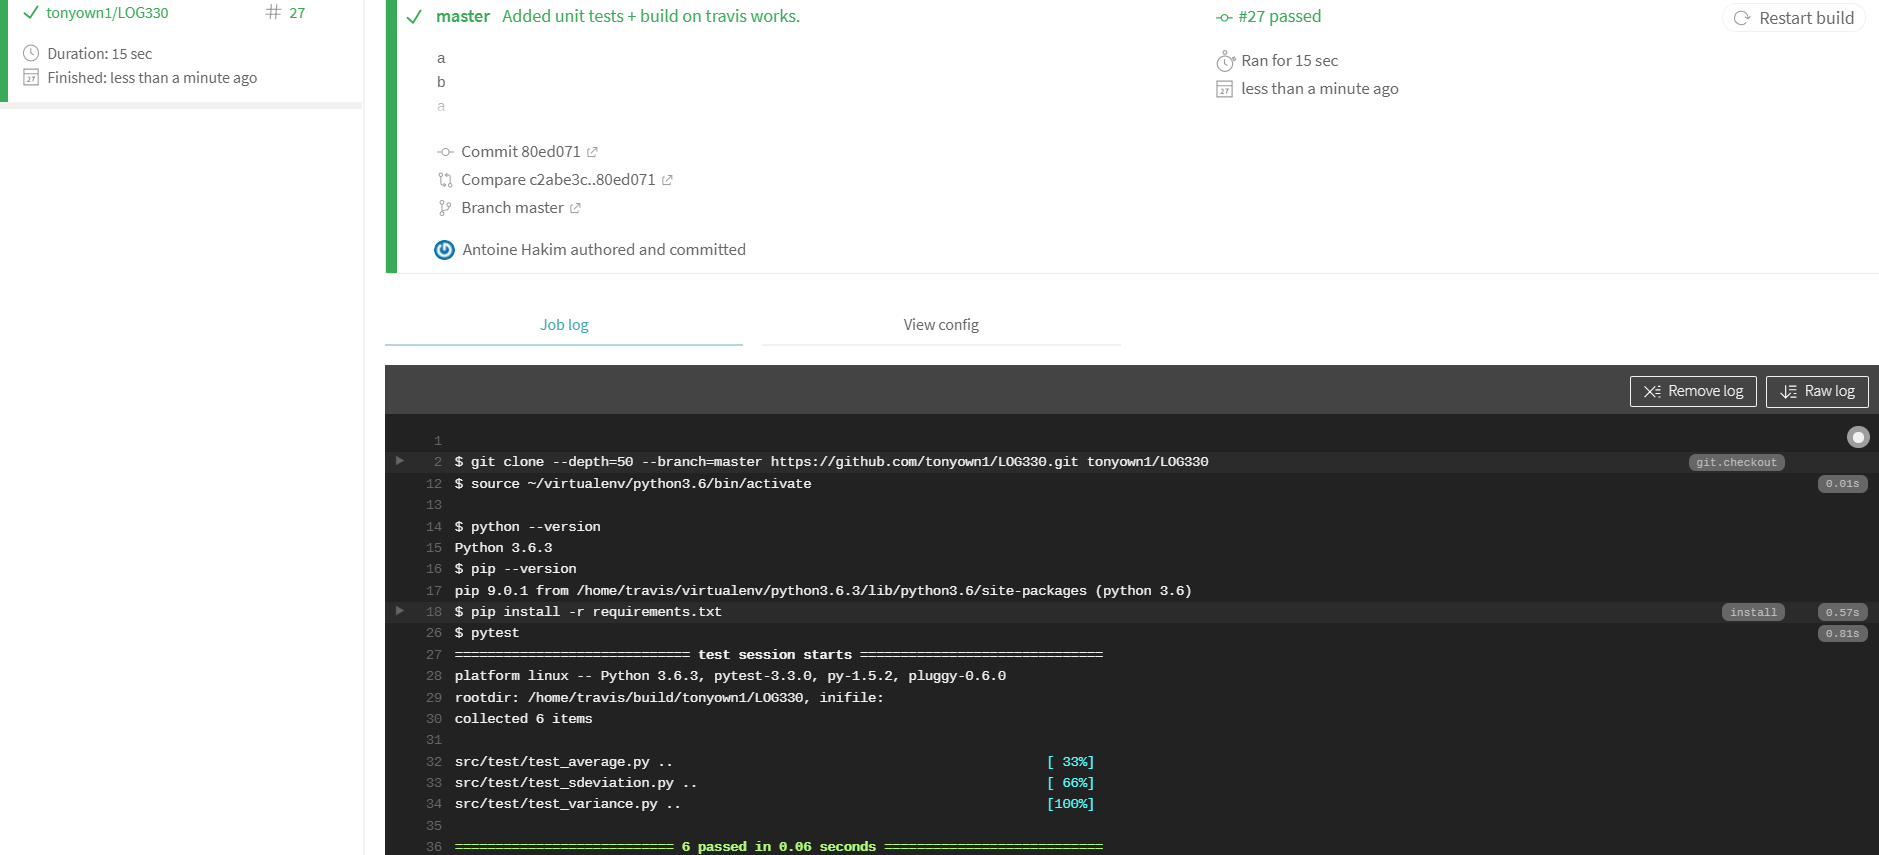
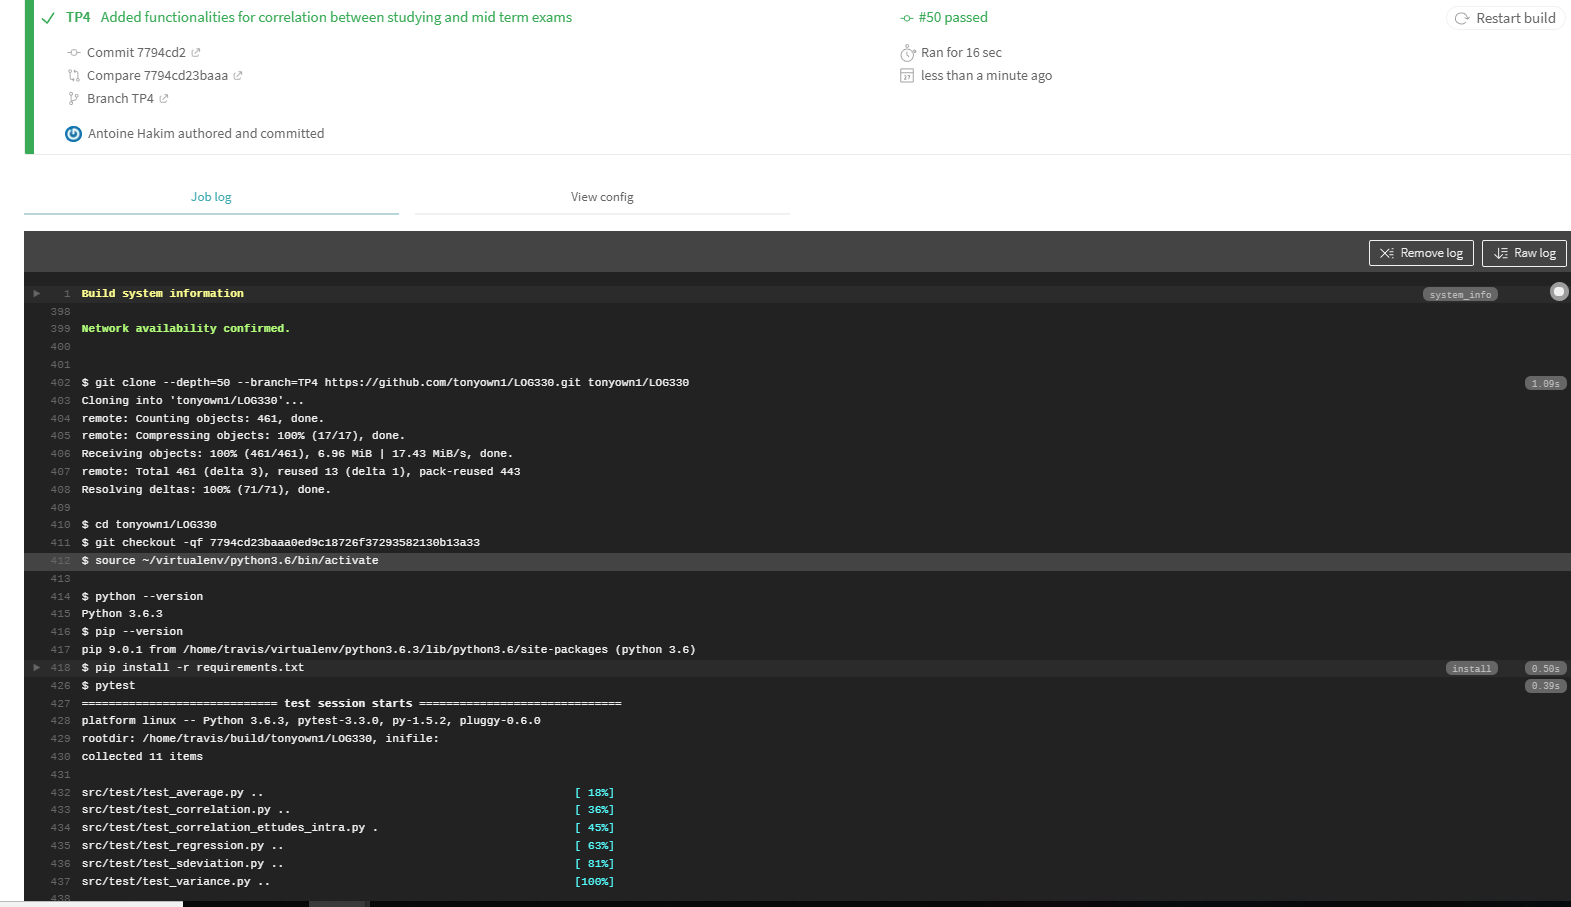
Added functionalities for correlation between studying and mid term exams a

diff --git a/src/program/main.py b/src/program/main.py
@@ -2,40 +2,49 @@ import csv
 
 from src.program.Operations import Operations
 matrix = []
-with open('csv/donnees_regression.csv', 'r') as csv_file:
-    csv_reader = csv.reader(csv_file)
-    # skip first line since array is dynamic an first line is for number of data.
-    next(csv_reader)
+reduced_matrix = []
+with open('csv/donnees_de_test.csv', 'r') as csv_file:
+    csv_reader = csv.reader(csv_file, delimiter=";")
     for line in csv_reader:
-        numbers = line[0].split(';')
-        numbers = [float(n) for n in numbers]
-        matrix.append(numbers)
+        matrix.append(line)
 
     operations = Operations()
-    regression = operations.regression(matrix)
-    b1 = round(regression[0], 9)
-    b0 = round(regression[1], 8)
 
-    print('b1 = ', b1)
-    print('b0 = ', b0)
-    print()
-    print()
+    for i in range(len(matrix)):
+        for j in range(len(matrix[i])):
+            if j != 0:
+                matrix[i][j] = float(matrix[i][j].replace(",", "."))
 
-    exit = False
-    while not exit:
-        i = input('Which value do you which to calculate? (x or y): ')
-        if i == 'x':
-            y = float(input('Please enter a value for y (4 decimals max): '))
-            print(y)
-            x = round((y-b0)/b1, 5)
-            print('X = %d' % x)
-        elif i == 'y':
-            x = float(input('Please enter a value for x (4 decimals max): '))
-            y = round(b0 + x*b1, 5)
-            print('Y = %d' % y)
-        else:
-            print('Wrong input')
-        c = input('do you wish to continue? (y or n): ')
-        if c == 'n':
-            exit = True
+    for i in range(len(matrix)):
+        data = operations.get_range_column(matrix[i], 1, 6)
+        average = operations.average(data)
+        temp = [average, matrix[i][7]]
+        reduced_matrix.append(temp)
+
+    c = operations.correlation(reduced_matrix)[0]
+
+    print('\nCalcule de la correlation')
+    print('-----------------------------\n')
+    print('correlation = ', c)
+    print('')
+
+    message = "La correlation entre le temps consacre aux etudes selon les donnees\n" \
+              "et les resultas obtenus a l'intra par les etudiants est "
+
+    if c >= 0 and c < 0.2:
+        message += "faible"
+    if c >= 0.2 and c < 0.4:
+        message += "moyenne"
+    if c >= 0.4 and c < 0.7:
+        message += "forte"
+    if c >= 0.7 and c < 0.9:
+        message += "tres forte"
+    if c >= 0.9 and c <= 1:
+        message += "parfaite"
+
+    print(message)
+
+
+
+
 

diff --git a/src/test/test_correlation_ettudes_intra.py b/src/test/test_correlation_ettudes_intra.py
@@ -1,0 +1,34 @@
+import unittest
+import sys
+import csv
+
+sys.path.insert(0, '/home/travis/build/tonyown1/LOG330/src/test/')
+
+from Operations import Operations
+
+matrix = []
+reduced_matrix = []
+with open('src/test/csv_test/donnees_de_test_original.csv', 'r') as csv_file:
+    csv_reader = csv.reader(csv_file, delimiter=";")
+    for line in csv_reader:
+        matrix.append(line)
+
+    operations = Operations()
+
+    for i in range(len(matrix)):
+        for j in range(len(matrix[i])):
+            if j != 0:
+                matrix[i][j] = float(matrix[i][j].replace(",", "."))
+
+    for i in range(len(matrix)):
+        data = operations.get_range_column(matrix[i], 1, 6)
+        average = operations.average(data)
+        temp = [average, matrix[i][7]]
+        reduced_matrix.append(temp)
+
+
+
+class test_etudes_intra(unittest.TestCase):
+    def test_etudes_intra_11(self):
+        operations = Operations()
+        self.assertTrue(0 <= operations.correlation(reduced_matrix)[0] <=1)

diff --git a/src/program/Operations.py b/src/program/Operations.py
@@ -92,8 +92,28 @@ class Operations:
             sum += data[r][c]
         return sum
 
+    """
+        Returns a table with data from a specified column from 2d data list
+        @:param data list paired with values x, y respectively. 
+        @:param c the column to return.
+        @:return will return a table with the specified column
+    """
     def get_column(self, data, c):
         temp = []
         for r in range(len(data)):
             temp.append(data[r][c])
+        return temp
+
+    """
+        Returns a table that contains data between two specified columns
+        @:param data list paired with values x, y respectively. 
+        @:param c1 range 1
+        @:param c2 range 2
+        @:return will return a table with data from c1 to c2
+    """
+    def get_range_column(self, data, c1, c2):
+        temp = []
+        for c in range(len(data)):
+            if c >= c1 and c <= c2:
+                temp.append(data[c])
         return temp
